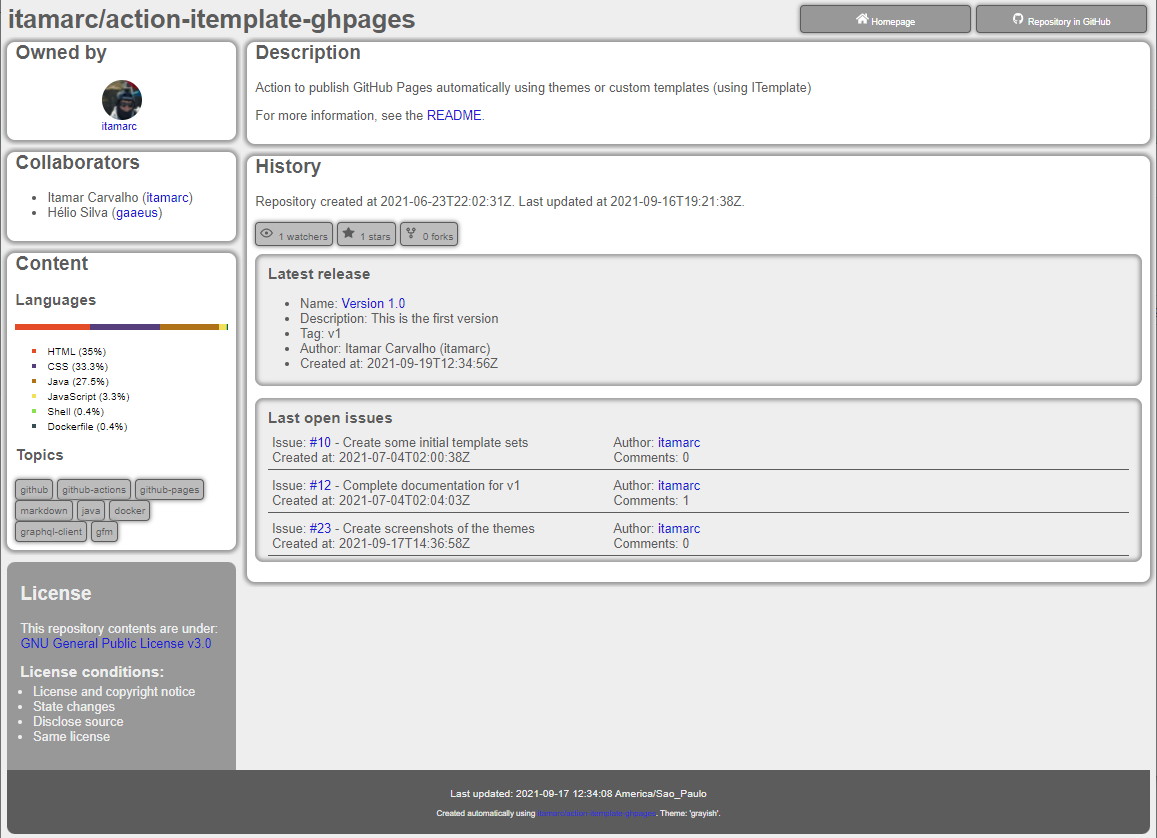
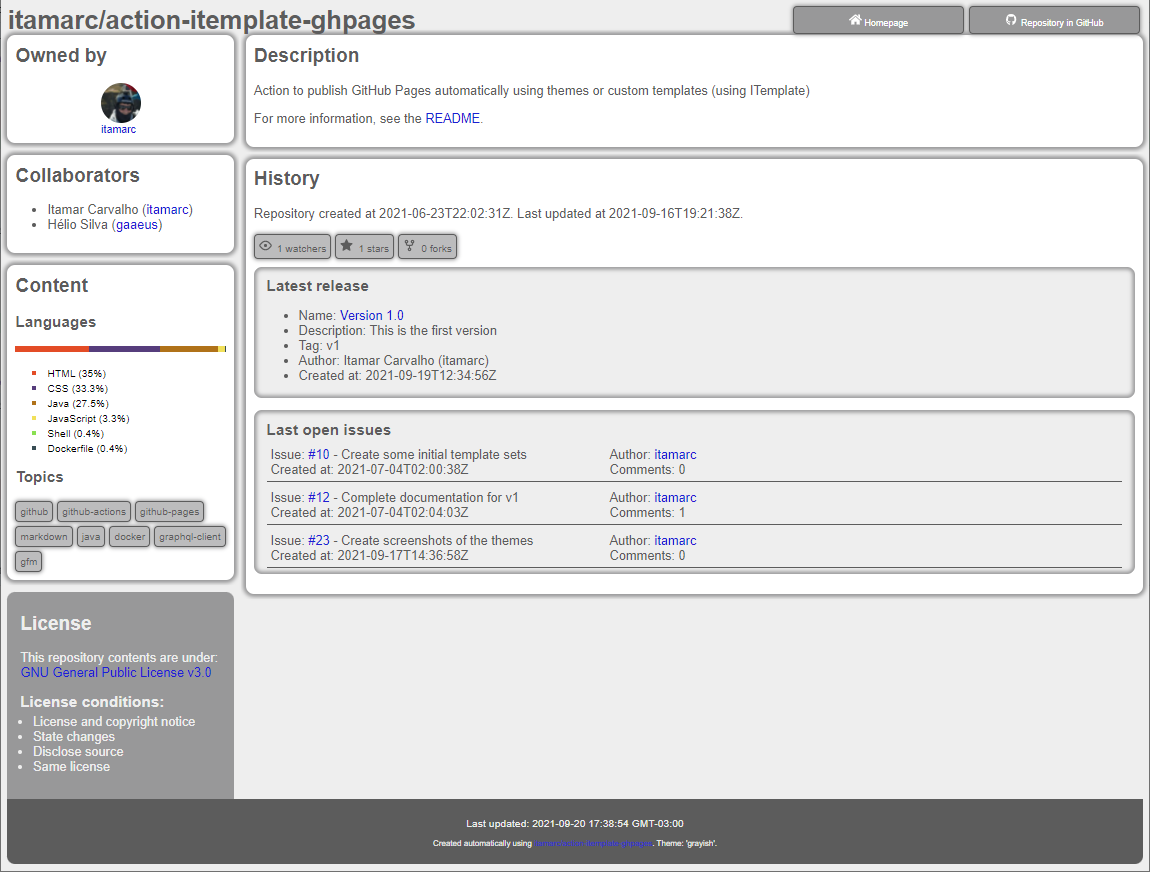
Adjustments in CSS and updated the screenshots

Changed region(s): [[0.0, 0.0, 1.0, 0.8998], [0.0, 0.9308, 1.0, 1.0]]

diff --git a/themes/bluish/bluish.css b/themes/bluish/bluish.css
@@ -174,7 +174,7 @@ a:hover {
 .container {
     background-color: var(--extreme);
     border-radius: 10px;
-    padding: 0px 10px 10px 10px;
+    padding: 2px 10px 10px 10px;
     margin-bottom: 10px;
 }
 
@@ -221,13 +221,13 @@ a:hover {
     display: flex;
     flex-flow: row wrap;
     justify-content: flex-start;
+    gap: 5px;
 }
 .topics span {
     border: var(--color1) 1px solid;
     background-color: var(--color3);
     padding: 5px;
     border-radius: 5px;
-    margin-right: 5px;
     font-size: 0.8em;
 }
 .topics a {

diff --git a/themes/grayish/grayish.css b/themes/grayish/grayish.css
@@ -174,7 +174,7 @@ a:hover {
 .container {
     background-color: var(--extreme);
     border-radius: 10px;
-    padding: 0px 10px 10px 10px;
+    padding: 2px 10px 10px 10px;
     margin-bottom: 15px;
 }
 
@@ -228,13 +228,13 @@ a:hover {
     display: flex;
     flex-flow: row wrap;
     justify-content: flex-start;
+    gap: 5px;
 }
 .topics span {
     border: var(--color1) 1px solid;
     background-color: var(--color3);
     padding: 5px;
     border-radius: 5px;
-    margin-right: 5px;
     font-size: 0.8em;
 }
 .topics a {

diff --git a/themes/greenish/greenish.css b/themes/greenish/greenish.css
@@ -196,7 +196,7 @@ a:hover {
 .container {
     background-color: var(--extreme);
     border-radius: 10px;
-    padding: 0px 10px 10px 10px;
+    padding: 2px 10px 10px 10px;
     margin-bottom: 10px;
 }
 
@@ -249,6 +249,7 @@ a:hover {
     display: flex;
     flex-flow: row wrap;
     justify-content: flex-start;
+    gap: 5px;
 }
 
 .topics span {
@@ -256,7 +257,6 @@ a:hover {
     background-color: var(--color3);
     padding: 5px;
     border-radius: 5px;
-    margin-right: 5px;
     font-size: 0.8em;
 }
 

diff --git a/themes/purplish/purplish.css b/themes/purplish/purplish.css
@@ -196,7 +196,7 @@ a:hover {
 .container {
     background-color: var(--extreme);
     border-radius: 10px;
-    padding: 0px 10px 10px 10px;
+    padding: 2px 10px 10px 10px;
     margin-bottom: 10px;
 }
 
@@ -249,6 +249,7 @@ a:hover {
     display: flex;
     flex-flow: row wrap;
     justify-content: flex-start;
+    gap: 5px;
 }
 
 .topics span {
@@ -256,7 +257,6 @@ a:hover {
     background-color: var(--color4);
     padding: 5px;
     border-radius: 5px;
-    margin-right: 5px;
     font-size: 0.8em;
 }
 

diff --git a/themes/dark/dark.css b/themes/dark/dark.css
@@ -194,6 +194,7 @@ a:hover {
     display: flex;
     flex-flow: row wrap;
     justify-content: flex-start;
+    gap: 5px;
 }
 
 .topics span {
@@ -201,7 +202,6 @@ a:hover {
     background-color: #151515;
     padding: 5px;
     border-radius: 5px;
-    margin-right: 5px;
     font-size: 0.8em;
 }
 

diff --git a/themes/light/light.css b/themes/light/light.css
@@ -194,6 +194,7 @@ a:hover {
     display: flex;
     flex-flow: row wrap;
     justify-content: flex-start;
+    gap: 5px;
 }
 
 .topics span {
@@ -201,7 +202,6 @@ a:hover {
     background-color: #003968;
     padding: 5px;
     border-radius: 5px;
-    margin-right: 5px;
     font-size: 0.8em;
 }
 

diff --git a/themes/reference/reference.css b/themes/reference/reference.css
@@ -113,6 +113,7 @@ a:hover {
     display: flex;
     flex-flow: row wrap;
     justify-content: flex-start;
+    gap: 5px;
 }
 
 .topics span {
@@ -121,7 +122,6 @@ a:hover {
     background-color: #47acff;
     padding: 5px;
     border-radius: 5px;
-    margin-right: 5px;
     font-size: 0.8em;
 }
 

diff --git a/themes/greenscreen/greenscreen.css b/themes/greenscreen/greenscreen.css
@@ -197,13 +197,13 @@ a:hover {
     display: flex;
     flex-flow: row wrap;
     justify-content: flex-start;
+    gap: 5px;
 }
 
 .topics span {
     border: var(--color3) 1px solid;
     background-color: var(--color1);
     padding: 5px;
-    margin-right: 5px;
     font-size: 0.8em;
 }
 

diff --git a/src/test/java/io/github/itamarc/tmplpages/TmplProcTest.java b/src/test/java/io/github/itamarc/tmplpages/TmplProcTest.java
@@ -24,7 +24,16 @@ public class TmplProcTest extends ActionRunner {
     protected void feedEnvironmentToMap(Map<String, String> valuesMap) {
         // Values more changed for tests
         valuesMap.put("GITHUB_WORKSPACE", baseDir);
-        valuesMap.put("INPUT_TEMPLATES_FOLDER", ":reference:");
+        // ------- THEMES -------
+        // valuesMap.put("INPUT_TEMPLATES_FOLDER", ":reference:");
+        // valuesMap.put("INPUT_TEMPLATES_FOLDER", ":light:");
+        // valuesMap.put("INPUT_TEMPLATES_FOLDER", ":dark:");
+        // valuesMap.put("INPUT_TEMPLATES_FOLDER", ":bluish:");
+        // valuesMap.put("INPUT_TEMPLATES_FOLDER", ":greenish:");
+        // valuesMap.put("INPUT_TEMPLATES_FOLDER", ":purplish:");
+        // valuesMap.put("INPUT_TEMPLATES_FOLDER", ":grayish:");
+        valuesMap.put("INPUT_TEMPLATES_FOLDER", ":greenscreen:");
+        // ----------------------
         valuesMap.put("INPUT_PAGES_FOLDER", "target\\docs");
         valuesMap.put("INPUT_SYNTAX_HIGHLIGHT_ENABLE", "true");
         valuesMap.put("INPUT_SYNTAX_HIGHLIGHT_THEME", "tomorrow");
@@ -32,6 +41,7 @@ public class TmplProcTest extends ActionRunner {
         valuesMap.put("GITHUB_REPOSITORY", "itamarc/action-itemplate-ghpages");
         // valuesMap.put("GITHUB_REPOSITORY", "itamarc/githubtest");
         valuesMap.put("INPUT_PUBLISH_README_MD", "true");
+        // valuesMap.put("INPUT_PUBLISH_README_MD", "inline");
         valuesMap.put("INPUT_CONVERT_MD_TO_HTML", "true");
 
         valuesMap.put("THEMES_PATH", baseDir + "\\themes");
